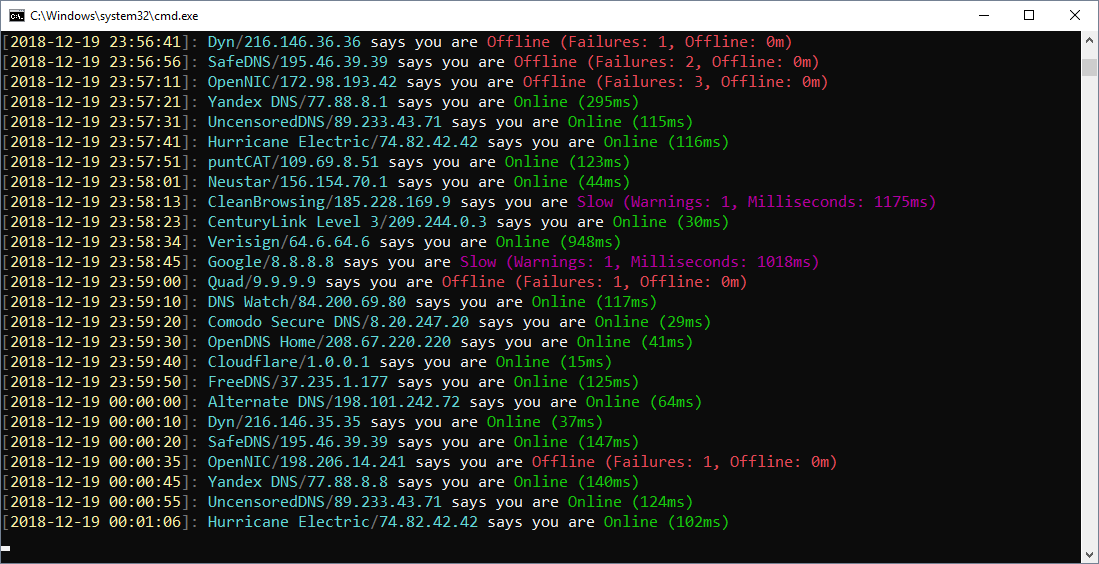
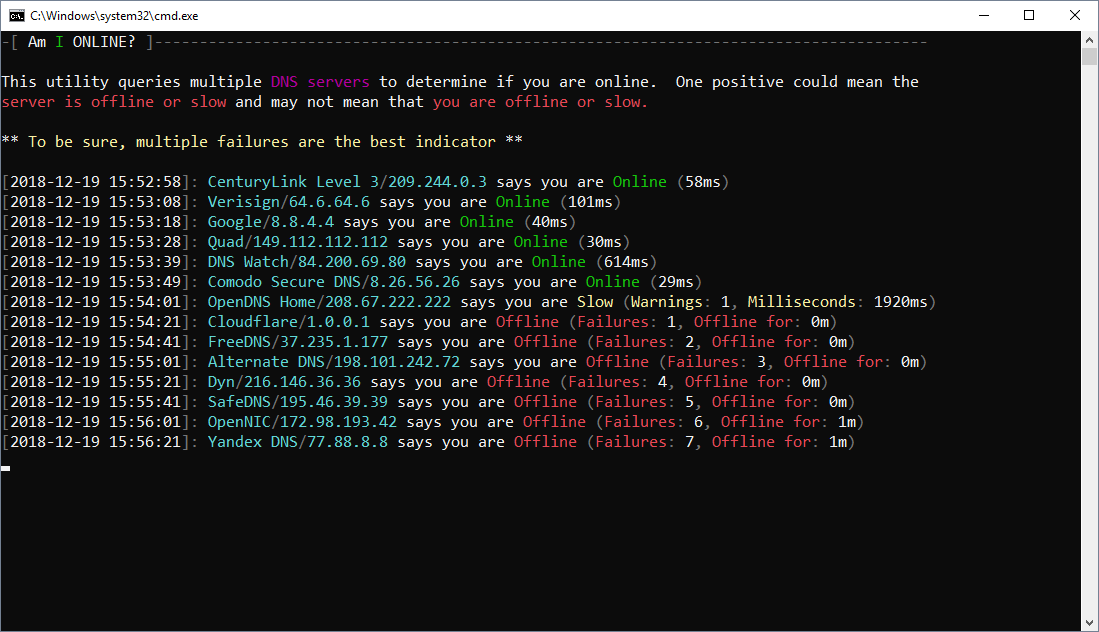
Final Ver

diff --git a/index.js b/index.js
@@ -8,6 +8,20 @@ var warnings = 0;
 var lastHost = -1;
 var servers = JSON.parse(fs.readFileSync('servers.json'));
 
+function logFile() {
+	var event = new Date();
+	var name =
+		event
+			.toISOString()
+			.slice(0, 10)
+			.trim()
+			.replace(/-/g, '') + '-online.csv';
+
+	if (!fs.existsSync(name)) fs.appendFileSync(name, 'Date/Time, Server, IP, Status, Errors, ms/min\n');
+
+	return name;
+}
+
 function dateStamp() {
 	var event = new Date();
 	return (
@@ -69,6 +83,56 @@ function random(arr) {
 	return arr[rnd];
 }
 
+function colorize(display) {
+	let charIndex = 0;
+	while (charIndex <= display.length - 1) {
+		let char = display[charIndex];
+
+		if (char == '^') {
+			let nextChar = display[charIndex + 1];
+
+			switch (nextChar) {
+				case 'b':
+					cursor.brightBlack();
+					charIndex++;
+					break;
+				case 'c':
+					cursor.brightCyan();
+					charIndex++;
+					break;
+				case 'w':
+					cursor.brightWhite();
+					charIndex++;
+					break;
+				case 'g':
+					cursor.brightGreen();
+					charIndex++;
+					break;
+				case 'r':
+					cursor.brightRed();
+					charIndex++;
+					break;
+				case 'm':
+					cursor.brightMagenta();
+					charIndex++;
+					break;
+				case 'y':
+					cursor.brightYellow();
+					charIndex++;
+					break;
+				default:
+					cursor.write(char);
+			}
+		} else {
+			cursor.write(char);
+		}
+
+		charIndex++;
+	}
+
+	cursor.write('\n').fg.reset();
+}
+
 async function isUp() {
 	let keys = Object.keys(servers);
 	if (++lastHost > keys.length - 1) lastHost = 0;
@@ -93,49 +157,36 @@ async function isUp() {
 
 		if (response.ms > 1000) {
 			warnings += 1;
-			status = 'SLOW';
+			if (response.ms > 2000) {
+				status = 'VERY SLOW';
+			} else {
+				status = 'SLOW';
+			}
 		} else {
 			warnings = 0;
 		}
 
-		csv = `${dateStamp()}, ${server}, ${serverIp}, ${status}, ${warnings}, ${ms}`;
+		csv = `${dateStamp()}, ${server}, ${serverIp}, ${status}, ${warnings}, ${ms}ms`;
 	}
 
-	fs.appendFileSync('offline.csv', csv + `\n`);
+	var output = `^b[^w${dateStamp()}^b]: ^c${server}^b/^c${serverIp}^w says you are `;
+	if (status == 'ONLINE') output += `^gOnline ^b(^w${ms}^b)`;
+	if (status == 'OFFLINE') output += `^rOffline ^b(^rFailures^b:^w ${failures}^b,^r Offline for^b:^w ${offTime}^b)`;
+	if (status == 'VERY SLOW') output += `^mVery Slow ^b(^mWarnings^b:^w ${warnings}^b,^m Milliseconds^b:^w ${ms}^b)`;
+	if (status == 'SLOW') output += `^ySlow ^b(^yWarnings^b:^w ${warnings}^b,^y Milliseconds^b:^w ${ms}^b)`;
 
-	cursor
-		.brightBlack()
-		.write('[')
-		.brightYellow()
-		.write(dateStamp())
-		.brightBlack()
-		.write(']: ')
-		.brightCyan()
-		.write(`${server}`)
-		.brightBlack()
-		.write('/')
-		.brightCyan()
-		.write(`${serverIp}`)
-		.brightWhite()
-		.write(' says you are ');
-
-	if (status == 'ONLINE') cursor.brightGreen().write(`Online (${ms})`);
-	if (status == 'OFFLINE') cursor.brightRed().write(`Offline (Failures: ${failures}, Offline: ${offTime})`);
-	if (status == 'SLOW') cursor.brightMagenta().write(`Slow (Warnings: ${warnings}, Milliseconds: ${ms})`);
-
-	cursor.write('\n').fg.reset();
+	colorize(output);
+	fs.appendFileSync(logFile(), csv + `\n`);
 
 	setTimeout(isUp, 10000);
 }
 
 cursor.brightBlack();
+colorize('^b-[ ^wAm ^gI ^wONLINE? ^b]--------------------------------------------------------------------------------------');
 console.log();
-console.log('-------------------------------------------------------------------------------------------------------');
-cursor.brightWhite();
-console.log('This queries DNS servers to determine if you are online.  One positive could mean the server is offline');
-console.log('and may not mean that you are offline.  To be sure, multiple failures are the best indicator');
-cursor.brightBlack();
-console.log('-------------------------------------------------------------------------------------------------------');
+colorize('^wThis utility queries multiple ^mDNS servers^w to determine if you are online.  ^wOne positive could mean the');
+colorize('^rserver is offline or slow ^wand may not mean that ^ryou are offline or slow.');
 console.log();
-
+colorize('^w** ^yTo be sure, multiple failures are the best indicator ^w**');
+console.log();
 isUp();

diff --git a/README.md b/README.md
@@ -3,6 +3,8 @@
 Quick and dirty NodeJS app to log your connection status via DNS
 queries. **servers.json** contains a list of DNS servers to test against.
 
+Creates a CSV date stamped output file as well as logging to the console.
+
 ![Console Output](/gfx/console.png)
 
 ![CSV Output](/gfx/csv.png)
